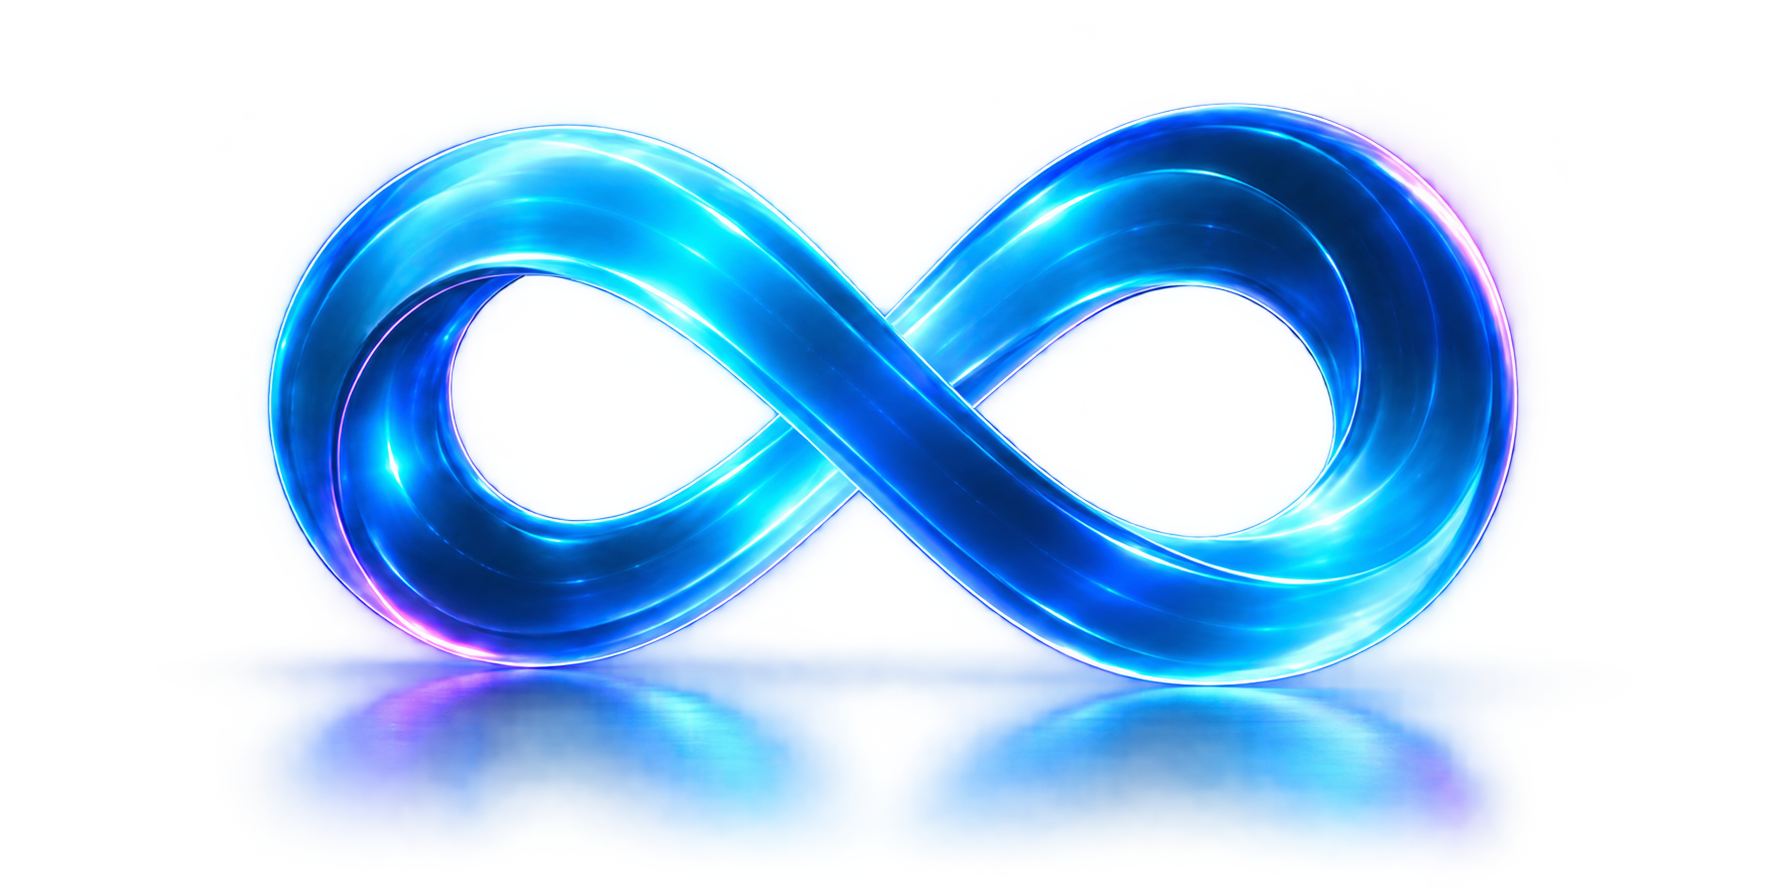
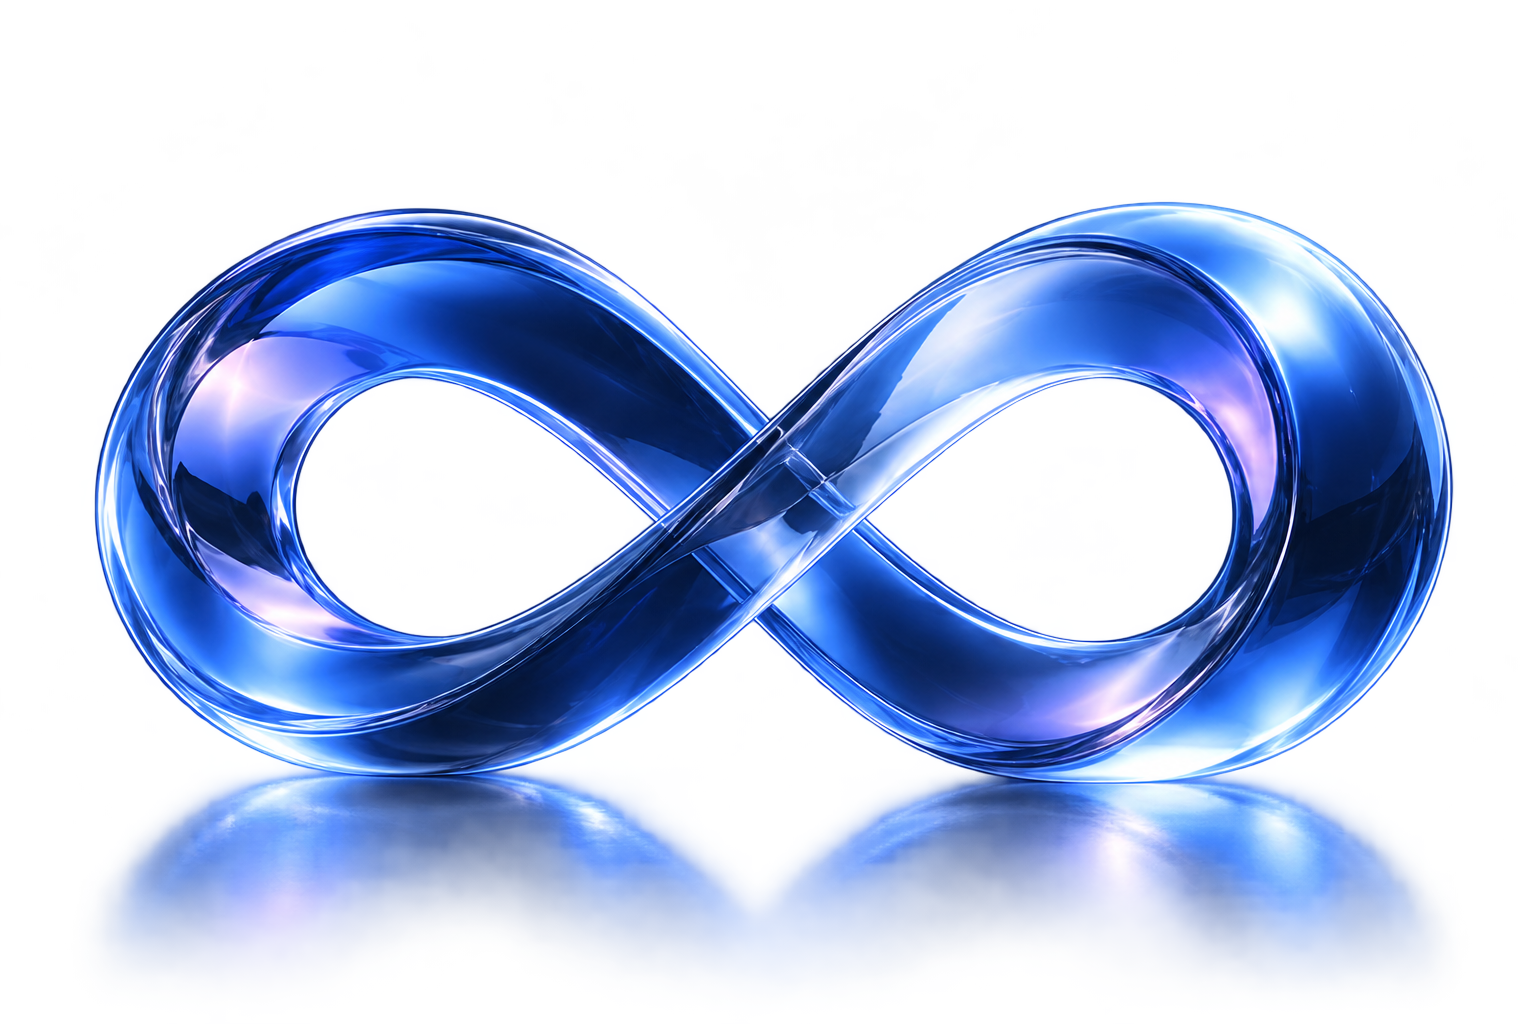
Refresh browser welcome palette and release redirect transport before body drain

diff --git a/kernel/core/bootstrap/browser_view.rs b/kernel/core/bootstrap/browser_view.rs
@@ -322,16 +322,22 @@ impl DisplayDevice {
     // ------------------=
     fn browser_welcome(&mut self,content:Viewport,scale:usize,focus:usize,scroll:u32) {
         let old_clip=self.render_clip;
-        self.fill_rect(content.x as usize,content.y as usize,content.width as usize,content.height as usize,32,33,36);
+        // A bounded scanline gradient keeps the native text crisp without a full-page bitmap.
+        for y in 0..content.height {
+            let shade=(y.min(520*scale as u32)*10/(520*scale as u32)) as u8;
+            self.fill_rect(content.x as usize,content.y as usize+y as usize,content.width as usize,1,18-shade/2,31-shade/2,51-shade);
+        }
         let Some(clip)=self.clipped_render_region(content.x.max(0) as usize,content.y.max(0) as usize,content.width as usize,content.height as usize) else {return;};
         self.render_clip=Some(clip);
         let l=infinity_browser_core::welcome::Layout::new(content,scale as u32,scroll);
         let width=l.area.width/scale as u32;
-        let copy_width=if l.narrow {width-64}else{width/2-24};
-        for (y,text,color,size) in [(24,b"Welcome to" as &[u8],(248,249,250),28),
-            (62,b"Infinity Browser",(34,211,238),28),(110,b"Your next discovery starts here.",(196,200,207),14),
-            (132,b"Search, explore, and make the web your own.",(196,200,207),14)] {
-            let r=l.rect(32,y,copy_width,36);
+        let copy_width=if l.narrow {width-64}else{width*3/5-48};
+        let headline=if width>=1000 {42}else{28};
+        for (y,text,color,size) in [(40,b"InfinityOS" as &[u8],(183,199,237),14),
+            (88,b"A more human",(241,245,255),headline),
+            (142,b"browsing experience.",(223,232,255),headline),
+            (210,b"Explore. Create. Stay in flow.",(160,181,220),14)] {
+            let r=l.rect(32,y,copy_width,48);
             if r.y>=content.y && r.y+r.height as i32<=content.y+content.height as i32 {self.browser_label_color(r,text,size*scale,false,color);}
         }
         let hero=l.hero();
@@ -347,20 +353,20 @@ impl DisplayDevice {
             self.browser_label_color(Viewport{y:r.y+10*scale as i32,..r},if index==0 {b"Start browsing"}else{b"Browser settings"},14*scale,true,if index==0 {(3,27,44)}else{(231,242,250)});
             if index==focus {self.outline_rounded_rect(r.x as usize,r.y as usize,r.width as usize,r.height as usize,8*scale,34,211,238);}
         }
-        for (index,(title,detail)) in [(b"Keep your place" as &[u8],b"Switch open tabs from View." as &[u8]),
-            (b"Save what matters",b"Star a page to add it to Favorites."),(b"Find it faster",b"Search page text with Ctrl+F.")].into_iter().enumerate() {
+        for (index,(title,detail)) in [(b"Continue browsing" as &[u8],b"Find open tabs in View." as &[u8]),
+            (b"Your bookmarks",b"Save favorites with the star."),(b"Explore InfinityOS",b"Make it yours in Settings.")].into_iter().enumerate() {
             let r=l.card(index);if r.y<content.y || r.y+r.height as i32>content.y+content.height as i32 {continue;}
-            self.fill_rounded_rect_alpha(r.x as usize,r.y as usize,r.width as usize,r.height as usize,10*scale,41,43,47,255);
-            self.outline_rounded_rect(r.x as usize,r.y as usize,r.width as usize,r.height as usize,10*scale,68,71,77);
-            let inset=if l.narrow {56}else{12}*scale as i32;
-            let title_y=if l.narrow {10}else{44}*scale as i32;
+            self.fill_rounded_rect_alpha(r.x as usize,r.y as usize,r.width as usize,r.height as usize,12*scale,28,42,62,230);
+            self.outline_rounded_rect(r.x as usize,r.y as usize,r.width as usize,r.height as usize,12*scale,57,77,106);
+            let inset=if l.narrow {56}else{20}*scale as i32;
+            let title_y=if l.narrow {14}else{66}*scale as i32;
             let text=Viewport{x:r.x+inset,y:r.y+title_y,width:r.width-inset as u32-12*scale as u32,height:20*scale as u32};
-            self.browser_label_color(text,title,14*scale,!l.narrow,(248,249,250));
-            self.browser_label_color(Viewport{y:text.y+24*scale as i32,..text},detail,14*scale,!l.narrow,(196,200,207));
-            let icon=Viewport{x:if l.narrow {r.x+12*scale as i32}else{r.x+r.width as i32/2-12*scale as i32},y:r.y+10*scale as i32,width:24*scale as u32,height:24*scale as u32};
-            self.browser_glyph(icon,if index==0 {15}else if index==1 {16}else{14},true,scale);
+            self.browser_label_color(text,title,14*scale,false,(241,245,255));
+            self.browser_label_color(Viewport{y:text.y+24*scale as i32,..text},detail,14*scale,false,(166,186,222));
+            let icon=Viewport{x:r.x+20*scale as i32,y:r.y+18*scale as i32,width:24*scale as u32,height:24*scale as u32};
+            self.browser_glyph(icon,if index==0 {15}else if index==1 {16}else{10},true,scale);
         }
-        let r=l.rect(32,if l.narrow {622}else{350},width-64,20);
+        let r=l.rect(32,if l.narrow {764}else{476},width-64,20);
         if r.y>=content.y && r.y+r.height as i32<=content.y+content.height as i32 {
             self.browser_label_color(r,b"Infinity AI is one click away on the side of your window.",14*scale,false,(164,172,182));
         }

diff --git a/tools/servo-platform-probe/engine-request.rs b/tools/servo-platform-probe/engine-request.rs
@@ -1,7 +1,7 @@
 use super::{resources, ResourceDelegate, Servo};
 use std::{cell::Cell, rc::Rc, time::{Duration, Instant}};
 
-struct Provider { observed: Rc<Cell<u32>> }
+struct Provider { observed: Rc<Cell<u32>>, headed: u64, released: Rc<Cell<u32>> }
 impl resources::Provider for Provider {
     // ------------------------=
     // FUNC: begin
@@ -40,10 +40,23 @@ impl resources::Provider for Provider {
         Ok(Some(resources::Response{status,headers,body}))
     }
     // ------------------------=
+    // FUNC: poll_stream
+    // DESC: Withholds redirect EOF forever to prove subsequent fetches do not wait for an irrelevant body.
+    // ------------------=
+    fn poll_stream(&mut self,id:u64)->Result<Option<resources::Event>,()> {
+        if matches!(id,2|3) {
+            if self.headed==id {return Ok(None);}
+            self.headed=id;
+            let response=self.poll(id)?.ok_or(())?;
+            return Ok(Some(resources::Event::Head(response.status,response.headers)));
+        }
+        self.poll(id).map(|r|r.map(resources::Event::Complete))
+    }
+    // ------------------------=
     // FUNC: cancel
     // DESC: Releases the completed in-memory fixture transaction.
     // ------------------=
-    fn cancel(&mut self,_:u64) {}
+    fn cancel(&mut self,id:u64) {if matches!(id,2|3){self.released.set(self.released.get()|1<<id);}}
 }
 
 // ------------------------=
@@ -52,7 +65,8 @@ impl resources::Provider for Provider {
 // ------------------=
 pub fn verify(engine:&Servo)->bool {
     let observed=Rc::new(Cell::new(0));
-    let resources=Rc::new(resources::Resources::new(Provider{observed:observed.clone()},super::super::monotonic));
+    let released=Rc::new(Cell::new(0));
+    let resources=Rc::new(resources::Resources::new(Provider{observed:observed.clone(),headed:0,released:released.clone()},super::super::monotonic));
     engine.set_delegate(resources.clone());
     let repaint=Rc::new(Cell::new(false));let loaded=Rc::new(Cell::new(0));
     let Ok(context)=servo::SoftwareRenderingContext::new((128,128).into()) else{return false;};
@@ -65,7 +79,7 @@ pub fn verify(engine:&Servo)->bool {
         if repaint.replace(false) {view.paint();}
         std::thread::sleep(Duration::from_millis(1));
     }
-    let passed=observed.get()==31;
+    let passed=observed.get()==31 && released.get()==12;
     super::super::record(2,46,observed.get() as u64);
     resources.close();drop(view);super::drain_close(engine);passed
 }

diff --git a/sdk/infinity-browser-core/welcome.rs b/sdk/infinity-browser-core/welcome.rs
@@ -17,7 +17,7 @@ impl Layout {
     // FUNC: height
     // DESC: Gives the full scrollable page extent in physical pixels.
     // ------------------=
-    pub fn height(&self)->u32 {if self.narrow {660*self.scale}else{380*self.scale}}
+    pub fn height(&self)->u32 {if self.narrow {800*self.scale}else{508*self.scale}}
     // ------------------------=
     // FUNC: rect
     // DESC: Maps authored logical coordinates into the shared content plane.
@@ -29,14 +29,14 @@ impl Layout {
     // FUNC: button
     // DESC: Returns two distinct keyboard-accessible native action targets.
     // ------------------=
-    pub fn button(&self,index:usize)->Viewport {self.rect(32+index as u32*180,166,164,36)}
+    pub fn button(&self,index:usize)->Viewport {self.rect(32+index as u32*180,252,164,36)}
     // ------------------------=
     // FUNC: hero
     // DESC: Keeps the complete transparent hero separate from text and controls.
     // ------------------=
     pub fn hero(&self)->Viewport {
         let w=self.area.width/self.scale;
-        if self.narrow {self.rect(32,214,w-64,166)}else{let x=(w/2+12).max(400);self.rect(x,16,w-x-32,192)}
+        if self.narrow {self.rect(32,308,w-64,166)}else{let x=w*3/5;self.rect(x,24,w-x-24,264)}
     }
     // ------------------------=
     // FUNC: card
@@ -44,8 +44,8 @@ impl Layout {
     // ------------------=
     pub fn card(&self,index:usize)->Viewport {
         let w=self.area.width/self.scale;
-        if self.narrow {self.rect(32,392+index as u32*70,w-64,60)}
-        else {let width=(w-96)/3;self.rect(32+index as u32*(width+16),224,width,100)}
+        if self.narrow {self.rect(32,490+index as u32*86,w-64,76)}
+        else {let width=(w-96)/3;self.rect(32+index as u32*(width+16),316,width,136)}
     }
 }
 #[cfg(test)]

diff --git a/sdk/infinity-browser-servo/resources.rs b/sdk/infinity-browser-servo/resources.rs
@@ -266,6 +266,17 @@ impl<P: Provider> Resources<P> {
                 } else { None };
                 if !valid { state.provider.cancel(id); fail_load(&mut state,pending.load); progressed=true; continue; }
                 response.status_code = status.try_into().unwrap();
+                // Fetch follows Location after inspecting these headers. Keeping an
+                // irrelevant redirect body on our serialized transport prevents the
+                // redirected request from starting (notably challenge -> results).
+                // Servo still owns redirect limits, method rewriting, cookies and CORS.
+                if matches!(status,301|302|303|307|308) && response.headers.contains_key(http::header::LOCATION) {
+                    response.headers.remove(http::header::CONTENT_LENGTH);
+                    response.headers.remove(http::header::CONTENT_ENCODING);
+                    state.provider.cancel(id);
+                    pending.load.intercept(response).finish();
+                    return true;
+                }
                 state.stream = Some(Stream { id, deadline: pending.deadline, document, size: 0,
                     load: pending.load.intercept(response), attachment, encoded:compressed.then(Vec::new) });
                 return true;

diff --git a/assets/ui-design-kit/default/browser-welcome.md b/assets/ui-design-kit/default/browser-welcome.md
@@ -1,0 +1,33 @@
+# Infinity Browser welcome page
+
+Reference: the approved navy browser mockup, generated October 18, 2026.
+This replaces the charcoal welcome-page treatment; native text is never baked
+into the illustration. Existing glyphs and button interaction recipes are reused.
+
+Palette: background #121f33 to #0d1a29, cards #1c2a3e with #394d6a edges,
+primary text #f1f5ff, secondary #a6bade, brand #b7c7ed. Wide layout places
+copy left and transparent sculpture right, with 16px card gutters. Narrow
+layout stacks artwork and cards without moving their hit targets independently.
+Headline uses native Inter at 42px (28px compact), labels and descriptions 14px.
+The two existing keyboard-accessible actions remain functional. The three cards
+describe available features, not cross-device sync or other unimplemented services.
+
+## Artwork
+
+`browser-welcome-hero-v1.png` is the replacement generated master;
+`browser-welcome-hero-v1.bmp` is the bounded native RGBA derivative produced by
+`tools/build-browser-welcome-artwork.py` through build-kit. Both are included
+in the default kit and its installed-System-Generation parity assertion.
+
+Built-in image generation, background-extraction prompt:
+“Extract/recreate ONLY the large blue glass infinity sculpture from the right
+side of this approved Infinity Browser mockup, including its soft subtle blue
+reflection beneath it. Transparent background. Preserve exactly the horizontal
+infinity silhouette, polished rounded glass material, blue periwinkle silver
+palette, highlights, perspective and proportions from reference. Asset for native
+browser welcome page. Center sculpture with tight but safe padding, landscape
+3:2 composition. No browser chrome, text, cards, wallpaper, floor rectangle,
+stars or new decorations. Actual alpha transparency around the sculpture and
+soft reflection, smooth antialiased clean edges.”
+
+Source generation: exec-e4acbd53-1645-4352-a5c4-1926bf339b7f.png.

diff --git a/assets/ui-design-kit/default/README.md b/assets/ui-design-kit/default/README.md
@@ -32,15 +32,15 @@ unchanged. Rendering stays inside tab bounds with no exterior glow or idle work.
 for all four states and crowded/full-width examples. Both installed design-kit
 payloads include the reference board and specification through the common list.
 
-## Welcome hero and charcoal page
+## Welcome hero and navy page
 
 Kit gap: no matching welcome-page illustration existed. `browser-welcome-hero-v1.png`
 is the built-in imagegen extraction of the approved browser mockup's blue/cyan
 glass infinity loop and reflection, with all surrounding UI removed and alpha preserved.
 `tools/build-browser-welcome-artwork.py` derives a bounded 960px-wide 32-bit BMP.
 Both native kernels embed that same BMP; both installed ESPs carry master and derivative.
-Use aspect-fit, never crop the loop or reflection. Charcoal page #202124, cards
-#292B2F, borders #44474D, accent #22D3EE. Reuse authored Inter atlases and native
+Use aspect-fit, never crop the loop or reflection. Navy page #121F33 to #0D1A29,
+cards #1C2A3E, borders #394D6A; see `browser-welcome.md`. Reuse authored Inter atlases and native
 button states. `infinity-browser-core/welcome.rs` owns responsive spacing and hit targets.
 The tab-stack and search glyphs extend the existing native browser stroke family.
 
